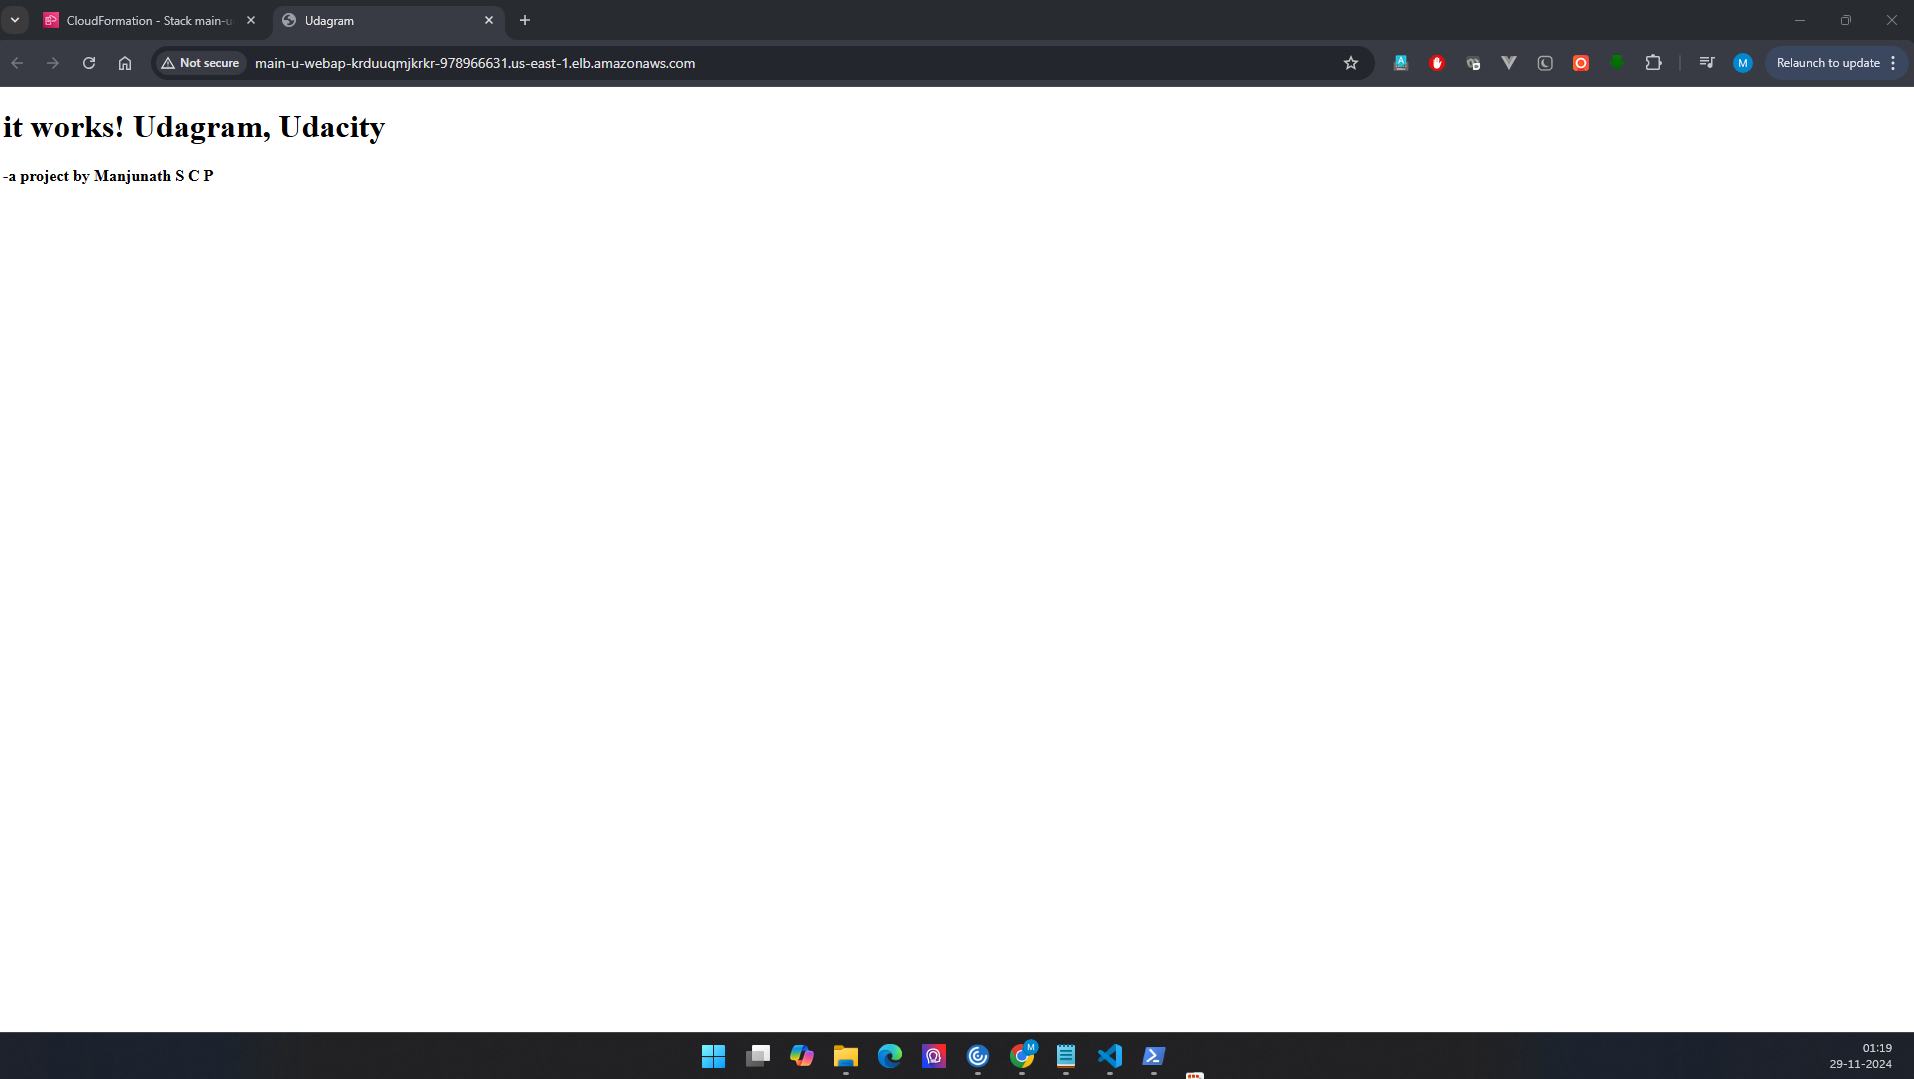
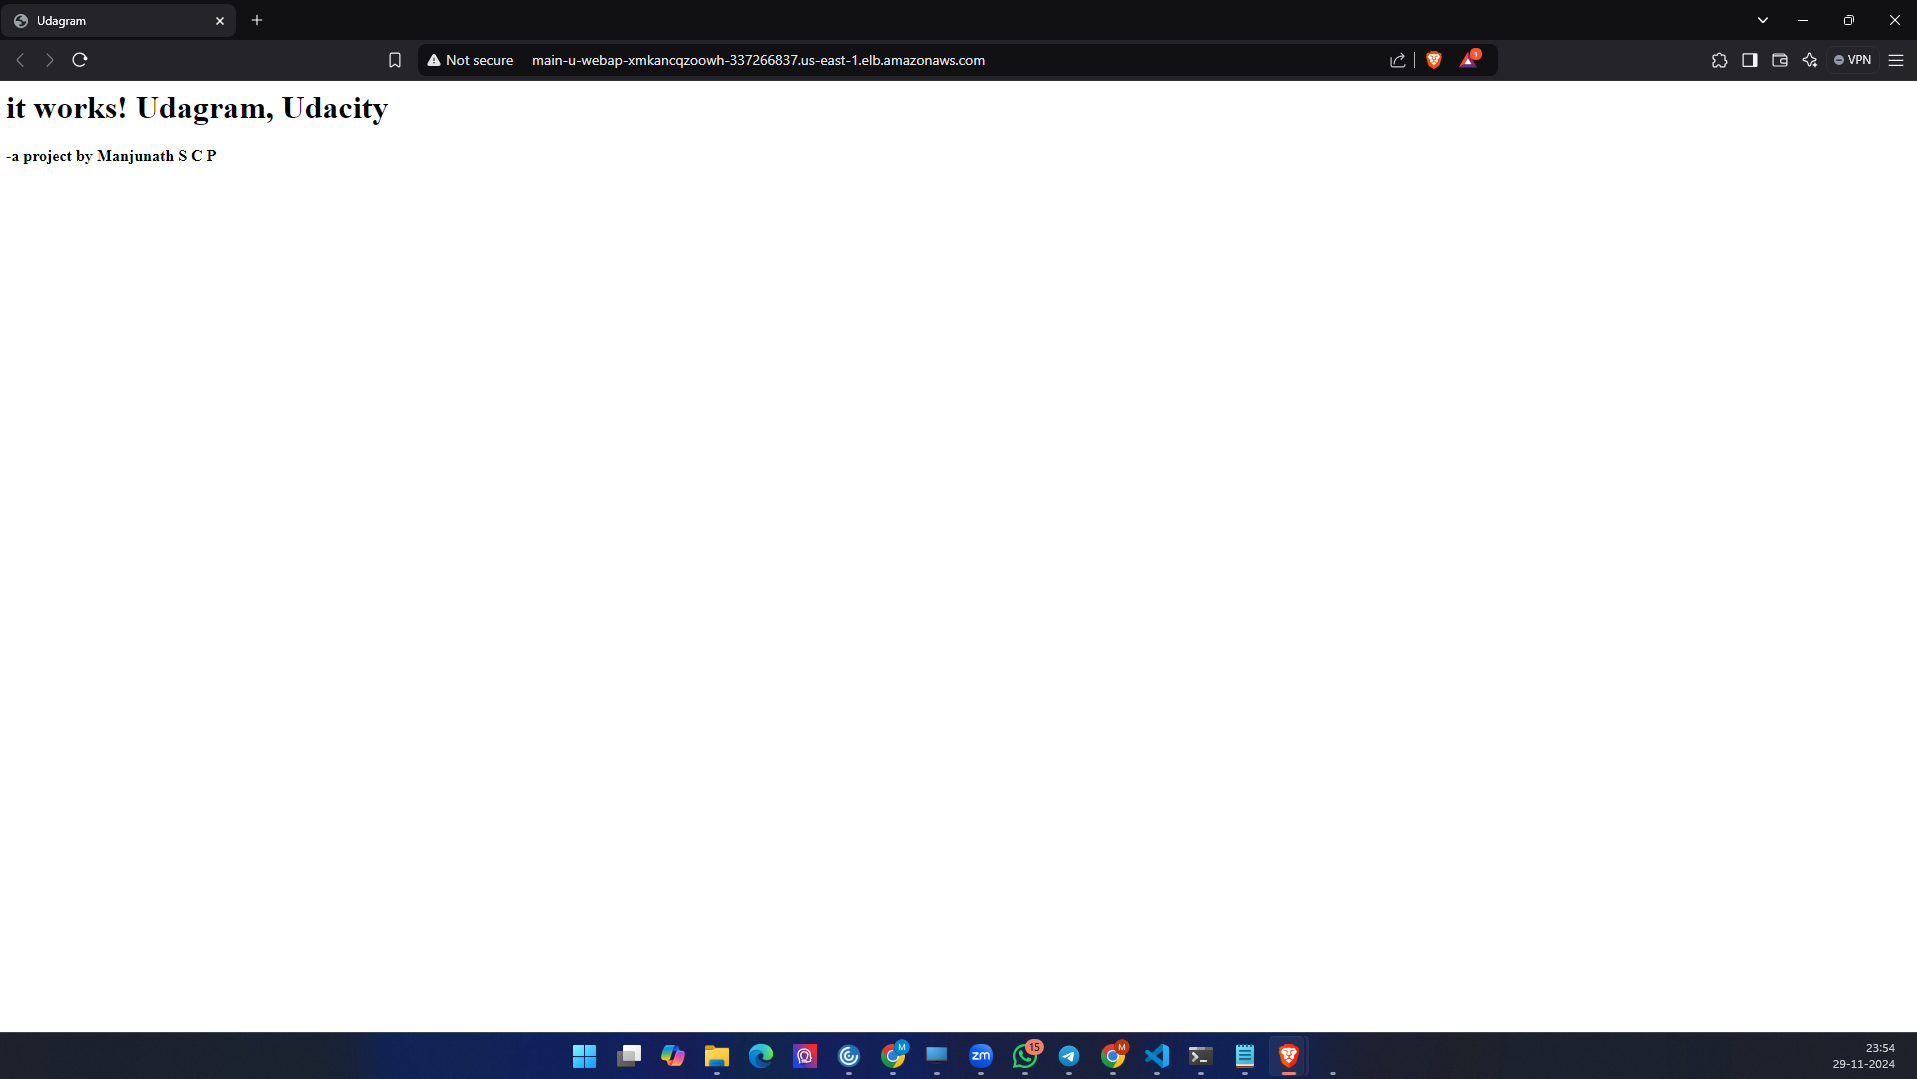
Updated based on feedback - html from repo

Changed region(s): [[0.0, 0.0, 1.0, 0.1835], [0.185, 0.9481, 0.709, 1.0]]

diff --git a/app/error.html b/app/error.html
@@ -1,0 +1,11 @@
+<html lang="en">
+<head>
+    <meta charset="UTF-8">
+    <meta name="viewport" content="width=device-width, initial-scale=1.0">
+    <title>Udagram</title>
+</head>
+<body>
+    <h1>Oops an error has occured</h1>
+    <h4> -to be fixed by Manjunath S C P</h4>
+</body>
+</html>

diff --git a/app/index.html b/app/index.html
@@ -1,0 +1,11 @@
+<html lang="en">
+<head>
+    <meta charset="UTF-8">
+    <meta name="viewport" content="width=device-width, initial-scale=1.0">
+    <title>Udagram</title>
+</head>
+<body>
+    <h1>it works! Udagram, Udacity</h1>
+    <h4> -a project by Manjunath S C P</h4>
+</body>
+</html>

diff --git a/s3_config/upload_app_to_s3.py b/s3_config/upload_app_to_s3.py
@@ -1,0 +1,53 @@
+import boto3
+import os
+import argparse
+
+def get_bucket_name(environment_name, region):
+    """
+    Retrieve the S3 bucket name from CloudFormation stack outputs.
+    """
+    cf_client = boto3.client('cloudformation', region_name=region)
+    export_name = f"{environment_name}-S3BucketName"
+    
+    # Get all exports and filter for the specific bucket export
+    exports = cf_client.list_exports()
+    for export in exports['Exports']:
+        if export['Name'] == export_name:
+            return export['Value']
+    
+    raise ValueError(f"Bucket name not found for export: {export_name}")
+
+def upload_files_to_s3(local_folder, bucket_name, region):
+    """
+    Upload all files from a local folder to the specified S3 bucket.
+    """
+    s3_client = boto3.client('s3', region_name=region)
+    
+    for root, _, files in os.walk(local_folder):
+        for file in files:
+            file_path = os.path.join(root, file)
+            s3_key = os.path.relpath(file_path, local_folder)  # Relative path as S3 key
+            print(f"Uploading {file_path} to s3://{bucket_name}/{s3_key}...")
+            s3_client.upload_file(file_path, bucket_name, s3_key)
+    print(f"All files from {local_folder} uploaded to bucket: {bucket_name}")
+
+def main():
+    # Parse command-line arguments
+    parser = argparse.ArgumentParser(description="Upload files to S3 bucket from a local folder.")
+    parser.add_argument("environment_name", type=str, help="Environment name used to retrieve the S3 bucket")
+    parser.add_argument("region", type=str, help="AWS region where the stack is deployed")
+    parser.add_argument("local_folder", type=str, help="Local folder containing files to upload")
+    args = parser.parse_args()
+
+    try:
+        # Retrieve the bucket name from CloudFormation output
+        bucket_name = get_bucket_name(args.environment_name, args.region)
+        print(f"Bucket name retrieved: {bucket_name}")
+        
+        # Upload files to the S3 bucket
+        upload_files_to_s3(args.local_folder, bucket_name, args.region)
+    except Exception as e:
+        print(f"An error occurred: {e}")
+
+if __name__ == "__main__":
+    main()

diff --git a/s3_config/empty_s3_bucket.py b/s3_config/empty_s3_bucket.py
@@ -1,0 +1,55 @@
+import boto3
+import argparse
+
+def get_bucket_name(environment_name, region):
+    """
+    Retrieve the S3 bucket name from CloudFormation stack outputs.
+    """
+    cf_client = boto3.client('cloudformation', region_name=region)
+    export_name = f"{environment_name}-S3BucketName"
+    
+    # Get all exports and filter for the specific bucket export
+    exports = cf_client.list_exports()
+    for export in exports['Exports']:
+        if export['Name'] == export_name:
+            return export['Value']
+    
+    raise ValueError(f"Bucket name not found for export: {export_name}")
+
+def empty_bucket(bucket_name, region):
+    """
+    Empty all objects and versions (if versioning is enabled) from the specified S3 bucket.
+    """
+    s3_client = boto3.client('s3', region_name=region)
+    s3_resource = boto3.resource('s3', region_name=region)
+    bucket = s3_resource.Bucket(bucket_name)
+    
+    # Delete all objects
+    print(f"Deleting objects in bucket: {bucket_name}")
+    bucket.objects.delete()
+    
+    # Delete all object versions if versioning is enabled
+    print(f"Checking for object versions in bucket: {bucket_name}")
+    bucket.object_versions.delete()
+
+    print(f"Bucket {bucket_name} is now empty.")
+
+def main():
+    # Parse command-line arguments
+    parser = argparse.ArgumentParser(description="Empty an S3 bucket.")
+    parser.add_argument("environment_name", type=str, help="Environment name used to retrieve the S3 bucket")
+    parser.add_argument("region", type=str, help="AWS region where the stack is deployed")
+    args = parser.parse_args()
+
+    try:
+        # Retrieve the bucket name from CloudFormation output
+        bucket_name = get_bucket_name(args.environment_name, args.region)
+        print(f"Bucket name retrieved: {bucket_name}")
+        
+        # Empty the S3 bucket
+        empty_bucket(bucket_name, args.region)
+    except Exception as e:
+        print(f"An error occurred: {e}")
+
+if __name__ == "__main__":
+    main()

diff --git a/README.md b/README.md
@@ -3,40 +3,52 @@
 
 ## Spin up instructions
 
+Pre-requisite: 
+    
+    aws configure
+
 ### Powershell Scripts Commands:
 
     .\runners\create.ps1 network-udagram .\network_config\network.yml .\network_config\network-parameters.json
     .\runners\create.ps1 s3-udagram .\s3_config\s3.yml .\s3_config\s3-parameters.json
+    python .\s3_config\upload_app_to_s3.py 'Manjunath-Network-Env' 'us-east-1' 'app/'
     .\runners\create.ps1 main-udagram .\udagram_config\udagram.yml .\udagram_config\udagram-parameters.json
 
 ### Alternative Python script:
-
-Pre-requisite: 
-    
-    aws configure
 
 Execution Commands:
 
     python .\cloud_formation.py create --stack-name network-udagram --template-path ./network_config/network.yml --parameters-path ./network_config/network-parameters.json
     python .\cloud_formation.py create --stack-name s3-udagram --template-path ./s3_config/s3.yml --parameters-path ./s3_config/s3-parameters.json
+    python .\s3_config\upload_app_to_s3.py 'Manjunath-Network-Env' 'us-east-1' 'app/'
     python .\cloud_formation.py create --stack-name main-udagram --template-path ./udagram_config/udagram.yml --parameters-path ./udagram_config/udagram-parameters.json
 
 ## Tear down instructions
 ### Powershell Scripts Commands:
 
     .\runners\delete.ps1 main-udagram
+    python .\s3_config\empty_s3_bucket.py 'Manjunath-Network-Env' 'us-east-1'
     .\runners\delete.ps1 s3-udagram
     .\runners\delete.ps1 network-udagram
 
 ### Alternative Python script:
 
     python .\cloud_formation.py delete --stack-name main-udagram
+    python .\s3_config\empty_s3_bucket.py 'Manjunath-Network-Env' 'us-east-1'
     python .\cloud_formation.py delete --stack-name s3-udagram
     python .\cloud_formation.py delete --stack-name network-udagram
 
-## Other considerations
-TODO (optional)
 
+## Updates as per review (29/Nov/2024)
+
+[APP URL](http://main-u-webap-xmkancqzoowh-337266837.us-east-1.elb.amazonaws.com/) http://main-u-webap-xmkancqzoowh-337266837.us-east-1.elb.amazonaws.com/
+
+STEPS TO PROGRAMATICALLY ADD DATA FROM S3 is added:
+
+Corresponding script:
+
+    python .\s3_config\upload_app_to_s3.py 'Manjunath-Network-Env' 'us-east-1' 'app/'
+    + added logic in the WebAppLaunchTemplate
 
 ## Exercise Details
 ### 1. Architecture Diagram
